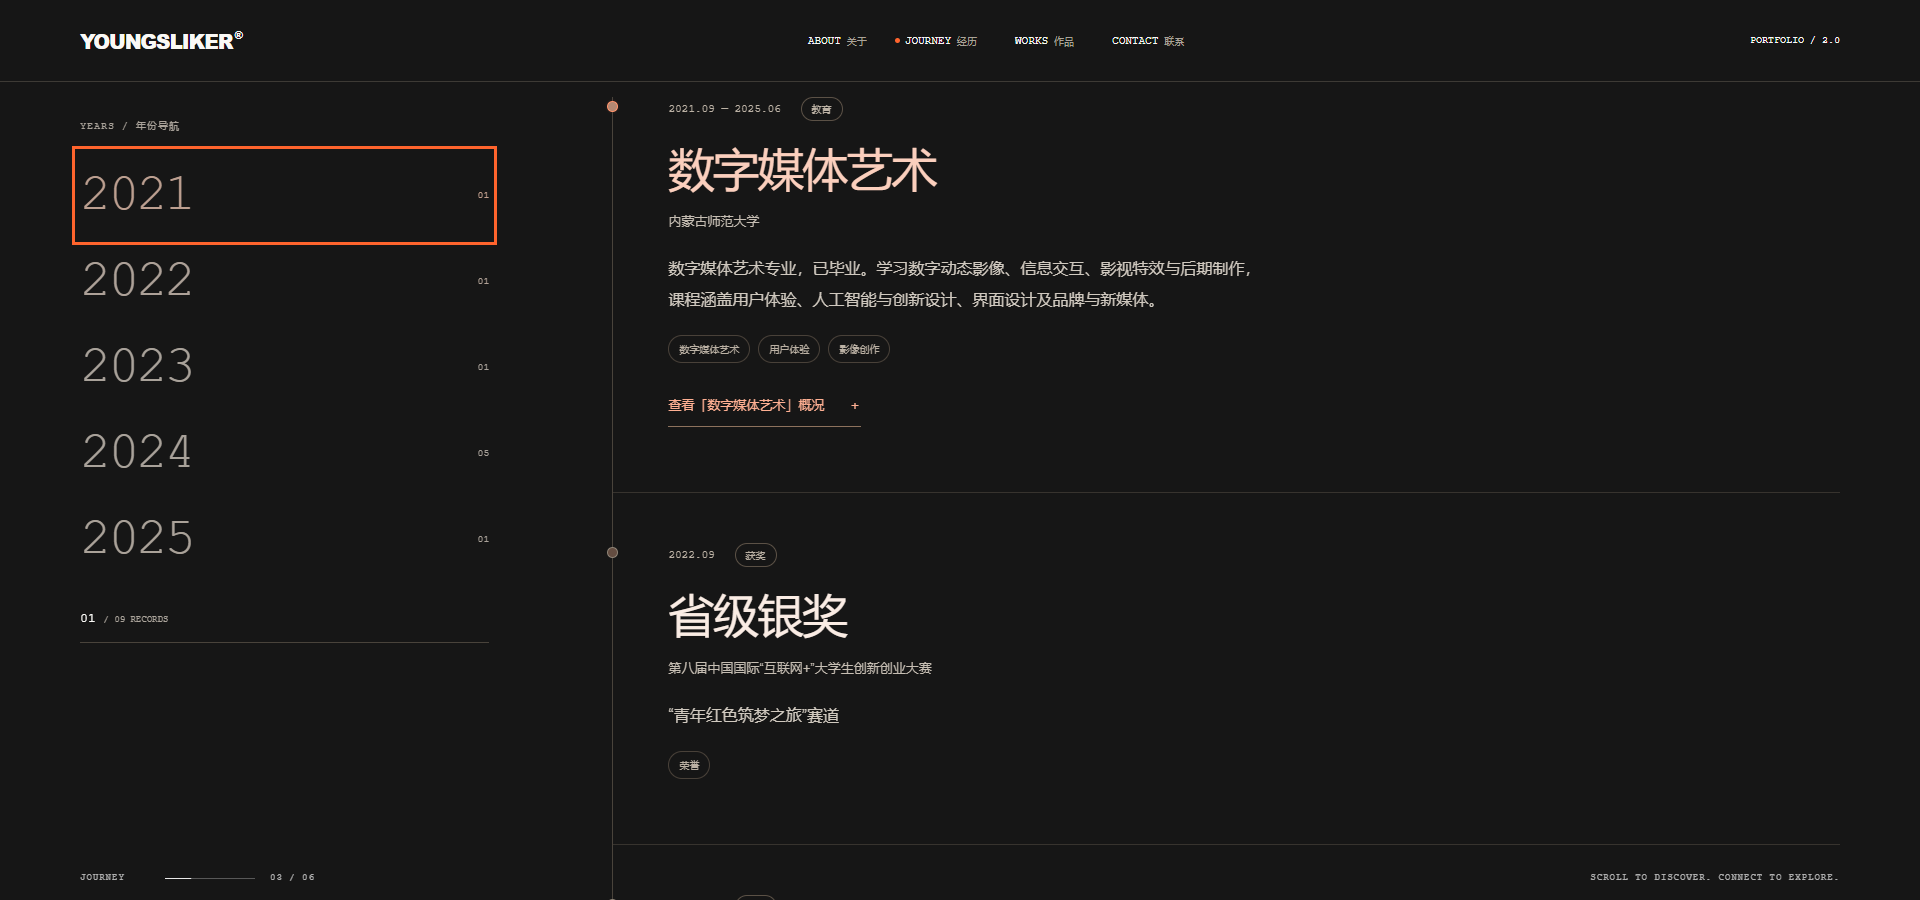
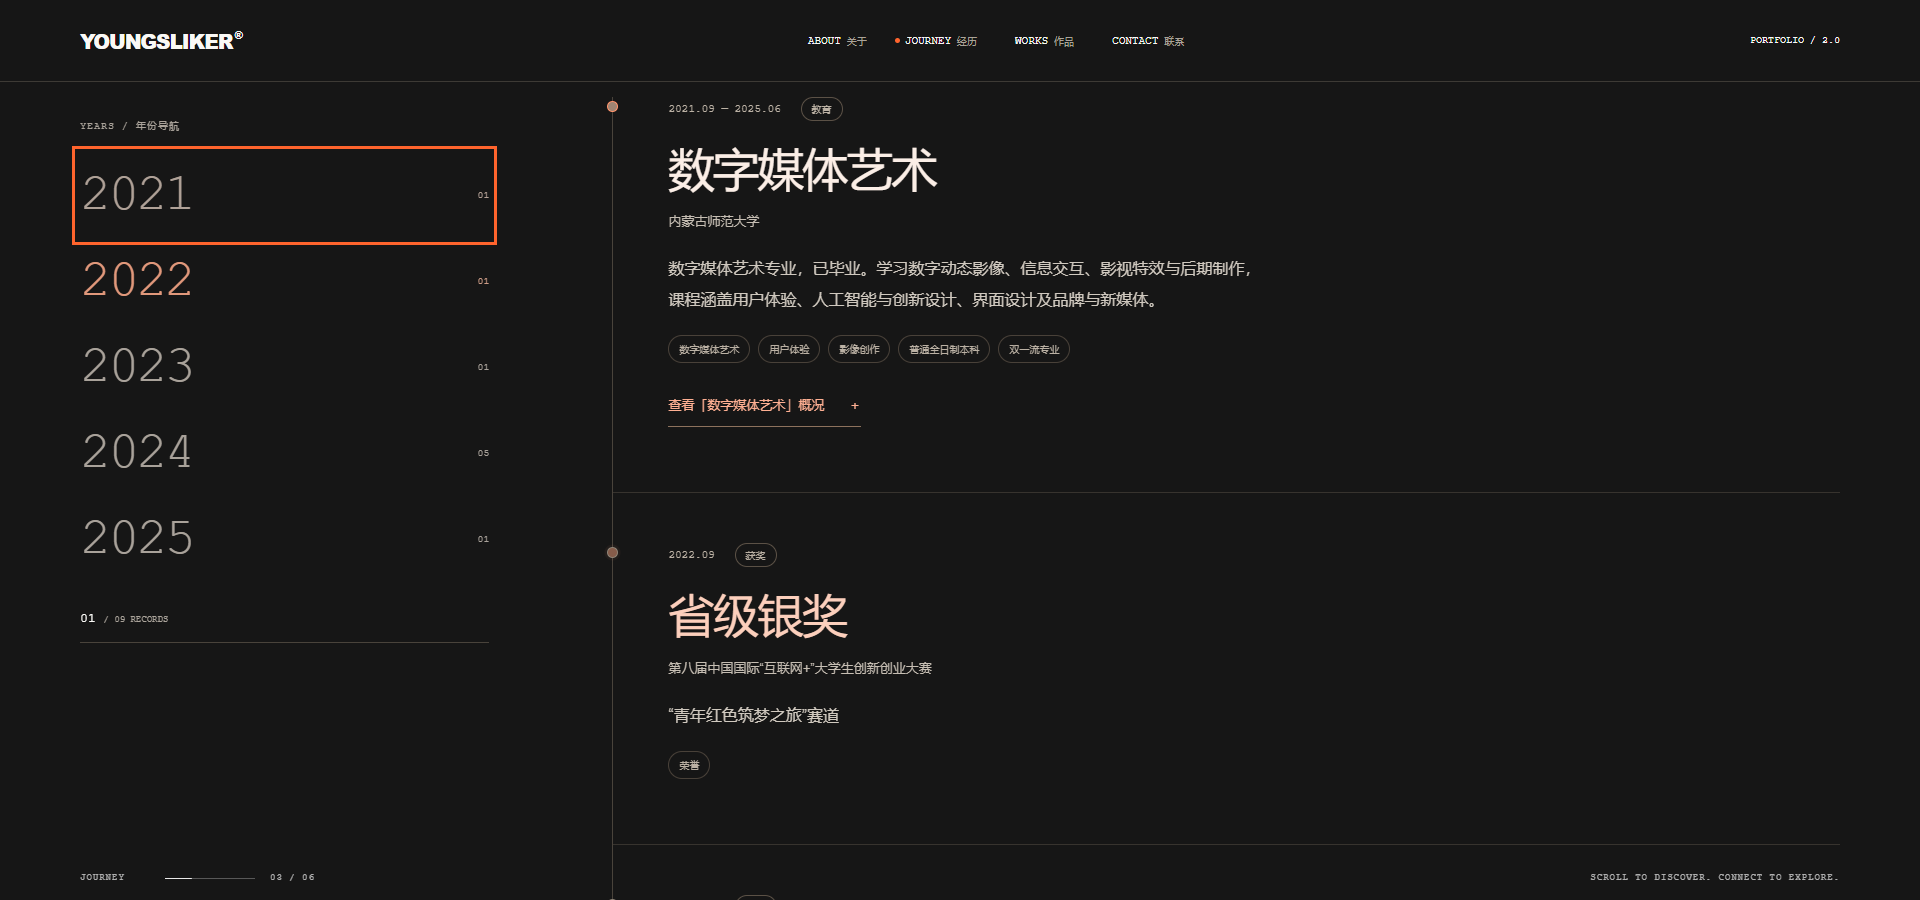
Astra修复
指针改成橙色四角框，悬停时展开到按钮边缘，深色背景也能看清。
矿山卡片补齐大标题、描边英文、背景和底部四栏信息。
两个透明 Logo 和数字媒体单图铺满概况内容宽度。
删除亚创概况里的重复标题，保留左侧竖排提示和缩小的证书。
补齐教育标签、实习分条内容、小马博士标题；绥远方志随机展示两张图。
生成轻量缩略图，保留原图。

diff --git a/New/js/components/Journey.tsx b/New/js/components/Journey.tsx
@@ -4,8 +4,8 @@ import {useJourney} from '../hooks/useJourney';
 import '../../css/journey.css';
 import awardImage from '../../assets/images/03 The Journey/亚洲大创一等奖.jpg';
 
-const journeyImages=import.meta.glob('../../assets/images/03 The Journey/**/*.{png,jpg,jpeg}',{eager:true,query:'?url',import:'default'}) as Record<string,string>;
-const imageFrom=(key:string)=>Object.entries(journeyImages).find(([path])=>path.includes(`/03 The Journey/${key}`))?.[1];
+const journeyImages=import.meta.glob('../../assets/images/03 The Journey/thumbnails/**/*.webp',{eager:true,query:'?url',import:'default'}) as Record<string,string>;
+const imageFrom=(key:string)=>Object.entries(journeyImages).find(([path])=>path.includes(`/thumbnails/${key}`))?.[1];
 const overviewCopy:Record<string,string>={
   education:'数字媒体艺术专业，围绕用户体验、影像创作与数字动态表达建立完整的设计基础。',
   mine:'以 Depth AI 建立场景模型，并在 UE5 中完成生态重建主题的实机演示。',
@@ -25,6 +25,7 @@ export function Journey() {
   const root=useRef<HTMLElement>(null);
   const active=useJourney(root);
   const [overview,setOverview]=useState<string|null>(null);
+  const [suiyuanImages]=useState(()=>Object.keys(journeyImages).filter(path=>path.includes('/绥远方志/')).map(path=>path.split('/thumbnails/')[1]).sort(()=>Math.random()-.5).slice(0,2));
   const lightbox=useRef<HTMLDialogElement>(null);
   const [imageOpen,setImageOpen]=useState(false);
   useEffect(()=>{
@@ -56,8 +57,18 @@ export function Journey() {
         {(entry.kind!=='获奖'||entry.id==='award-1')&&<button className="journey-work-link" aria-expanded={overview===entry.id} aria-controls={`overview-${entry.id}`} onClick={()=>setOverview(overview===entry.id?null:entry.id)}>查看「{entry.id==='internship'?'实习经历':entry.id==='award-1'?'“亚创大赛”一等奖':entry.title}」概况 <span aria-hidden="true">{overview===entry.id?'−':'＋'}</span></button>}
         </div>
         {overview===entry.id&&<section id={`overview-${entry.id}`} className="journey-overview" aria-label={`${entry.title}概况`}>
-          <span className="journey-nav-label">PROJECT / 概况</span><h4>{entry.id==='internship'?'脸谱心智 · AIGC 实习':entry.title}</h4>
-          {entry.id==='award-1'?<button type="button" className="journey-certificate" onClick={()=>setImageOpen(true)} aria-label="放大亚创获奖证书"><span>点击查看大图</span><img src={awardImage} alt="亚创获奖证书"/></button>:<><p>{overviewCopy[entry.id]??entry.description}</p>{entry.id==='mine'?<div className="journey-mine-card"><strong>MINING ECOLOGY<br/>RESTORATION</strong><small>DEPTH AI → UE5&nbsp;&nbsp; / &nbsp;&nbsp;2023</small></div>:overviewImages[entry.id]&&<div className={`journey-overview-images journey-overview-images--${entry.id}`}>{overviewImages[entry.id].map((key,index)=>{const src=imageFrom(key);return src?<img key={index} src={src} alt="" loading="lazy"/>:null;})}</div>}</>} {entry.id!=='award-1'&&<p className="journey-overview-meta">{entry.organization} · {entry.date}</p>}
+          {entry.id==='award-1'?<button type="button" className="journey-certificate" onClick={()=>setImageOpen(true)} aria-label="放大亚创获奖证书"><span>点击查看大图</span><img src={imageFrom('亚洲大创一等奖')} alt="亚创获奖证书"/></button>:entry.id==='mine'?<div className="journey-mine-card">
+            <div className="mine-kicker">ECOLOGICAL RECONSTRUCTION · UE5</div><h4>矿山*生态</h4>
+            <strong>MINING ECOLOGY<br/>RESTORATION</strong>
+            <p>使用 AI 图像生成、语言模型、ShaderMap 与 SUNO 辅助创作，结合场景建模与 UE5，完成生态重建主题的实机演示。</p>
+            <dl>{[['TYPE','生态场景设计'],['PIPELINE','Depth AI → UE5'],['OUTPUT','矿山场景实机'],['YEAR','2023']].map(([label,value])=><div key={label}><dt>{label}</dt><dd>{value}</dd></div>)}</dl>
+          </div>:<>
+            <span className="journey-nav-label">{entry.id==='internship'?'INTERNSHIP / 实习经历':'PROJECT / 概况'}</span>
+            <h4>{entry.id==='internship'?'AIGC 实习 · 工作内容':entry.id==='earthquake'?'活动断层成果应用':entry.title}</h4>
+            {entry.id==='internship'?<ul className="journey-internship-list"><li>配置和优化 ComfyUI 的 LivePortrait、easyanimat。</li><li>完善和修改角色卡，制作抽卡抽奖动画及类 fufu 的角色 AI 动画。</li><li>制作 CP30 宣发海报、易拉宝，完善哄哄模拟器设计，迭代话题与话术。</li><li>完善 VUP 模拟器设计，使用 PyQt 编写界面。</li></ul>:<p>{overviewCopy[entry.id]??entry.description}</p>}
+            {overviewImages[entry.id]&&<div className={`journey-overview-images journey-overview-images--${entry.id}`}>{(entry.id==='suiyuan'?suiyuanImages:overviewImages[entry.id]).map((key,index)=>{const src=imageFrom(key);return src?<img key={key} src={src} alt={`${entry.title}展示 ${index+1}`} loading="lazy" decoding="async"/>:null;})}</div>}
+            <p className="journey-overview-meta">{entry.organization} · {entry.date}</p>
+          </>}
         </section>}
 
       </article>)}</div>

diff --git a/New/data/journey.ts b/New/data/journey.ts
@@ -4,11 +4,11 @@ export interface TimelineEntry {
 }
 // Explicit source dates only; asset filenames are not evidence of completion.
 const practiceEntries:TimelineEntry[] = [
-  {id:'education',year:'2021',date:'2021.09 — 2025.06',kind:'教育',title:'数字媒体艺术',organization:'内蒙古师范大学',description:'数字媒体艺术专业，已毕业。学习数字动态影像、信息交互、影视特效与后期制作，课程涵盖用户体验、人工智能与创新设计、界面设计及品牌与新媒体。',tags:['数字媒体艺术','用户体验','影像创作'],source:'用户提供简历：教育背景',confirmed:true},
+  {id:'education',year:'2021',date:'2021.09 — 2025.06',kind:'教育',title:'数字媒体艺术',organization:'内蒙古师范大学',description:'数字媒体艺术专业，已毕业。学习数字动态影像、信息交互、影视特效与后期制作，课程涵盖用户体验、人工智能与创新设计、界面设计及品牌与新媒体。',tags:['数字媒体艺术','用户体验','影像创作','普通全日制本科','双一流专业'],source:'用户提供简历：教育背景',confirmed:true},
   {id:'mine',year:'2023',date:'2023.08',kind:'项目',title:'矿山*生态',organization:'创作实践',description:'基于 Depth AI 场景建模的 UE5 实机演示。',tags:['Depth AI','UE5','场景建模'],source:'用户提供作品说明及 No.202308',confirmed:true,workId:'mine-eco'},
   {id:'arti',year:'2024',date:'2024.03',kind:'项目',title:'ARTI 人工智能艺术教育教程',organization:'中国人工智能艺术教育协同创新平台',description:'ARTI 平台讲解及人工智能教育联盟公众号教程制作。内容涵盖基础图像生成、产品与交互设计、平面与视觉设计、装置与公共艺术的图像生成教程。',tags:['AI 教程','生成式视觉'],source:'用户提供简历：项目经历，2024.03',confirmed:true},
   {id:'lingsu',year:'2024',date:'2024.06',kind:'项目',title:'微元灵溯',organization:'创作实践',description:'基于“隐性饥饿”的 AI 艺术可视化交互设计。',tags:['AI 艺术','可视化','交互设计'],source:'用户提供作品说明及 No.202406',confirmed:true,workId:'weiyuan'},
-  {id:'internship',year:'2024',date:'2024.08 — 2024.10',kind:'实习',title:'AIGC 设计师',organization:'上海脸谱心智',description:'配置和优化 ComfyUI 工作流，完善角色卡并制作抽卡动画与角色 AI 动画；制作 CP30 宣发海报、易拉宝，参与模拟器话题、话术与界面设计，使用 PyQt 编写界面。',tags:['ComfyUI','AI 动画','视觉物料','PyQt'],source:'用户提供简历：工作经历',confirmed:true},
+  {id:'internship',year:'2024',date:'2024.08 — 2024.10',kind:'实习',title:'AIGC 设计师',organization:'上海脸谱心智',description:'参与 AI 动画、宣发物料与模拟器设计，优化 ComfyUI 工作流并使用 PyQt 开发界面。',tags:['ComfyUI','AI 动画','视觉物料','PyQt'],source:'用户提供简历：工作经历',confirmed:true},
   {id:'earthquake',year:'2024',date:'2024.11 — 2024.12',kind:'项目',title:'小马博士讲故事',organization:'内蒙古自治区地震局',description:'“炫动文创联‘萌’守护地震安全”（第二季）——小马博士讲故事活动断层成果应用。制作系列视频，传播活动断层探测成果的应用及减轻地震灾害损失的知识。',tags:['地震科普','系列视频'],source:'用户提供简历：项目经历',confirmed:true},
   {id:'suiyuan',year:'2025',date:'2025.01 — 2025.07',kind:'项目',title:'绥远方志',organization:'“创意内蒙古”设计赋能呼和浩特',description:'以呼和浩特不同时期的史志为内容，设计沉浸式交互系统。使用 AIGC 制作图像、音频、视频、模型、代码与文本，并通过 Unity 整合；结合强化学习智能体、3D 打印与 Pico Neo3 VR 构建体验。',tags:['AIGC','Unity','智能体','VR'],source:'用户提供简历项目经历；完成月份另由用户确认为 2025.07',confirmed:true,workId:'suiyuan'},
 ];

diff --git a/New/css/journey.css b/New/css/journey.css
@@ -80,3 +80,27 @@
 
 .journey-lightbox { -webkit-backdrop-filter:blur(12px); backdrop-filter:blur(12px); }
 
+/* Full-width, uncropped artwork; transparent logos keep the panel background. */
+.journey-overview-images--lingsu img,.journey-overview-images--internship img,.journey-overview-images--education img { width:100%;max-width:100%;height:auto;object-fit:contain;border:0;background:transparent; }
+.journey-overview-images:not(.journey-overview-images--lingsu):not(.journey-overview-images--internship):not(.journey-overview-images--education) img {height:auto;object-fit:contain;align-self:center;}
+.journey-internship-list {padding-left:18px;font-size:14px;line-height:1.9;color:#d0c9bf;}
+.journey-internship-list li+li {margin-top:8px;}
+.journey-entry--award-1 .journey-overview {padding:0;border:0;background:none;}
+.journey-certificate {display:flex;justify-content:center;gap:14px;min-height:190px;}
+.journey-certificate img {width:50%;max-height:190px;}
+.journey-entry--mine .journey-overview {padding:0;border:0;background:none;}
+.journey-mine-card {margin:0;padding:22px 18px 0;overflow:hidden;background:linear-gradient(#08100ddd,#08100dee),url('../assets/images/menu/mine-eco.webp') center/cover;border:1px solid #536b2344;}
+.mine-kicker {font:700 9px/1.5 var(--sans);letter-spacing:2px;color:#b7ee36;}
+.journey-mine-card h4 {font-size:clamp(32px,3.3vw,58px);font-weight:900;color:#fff;line-height:1.15;margin:18px 0;}
+.journey-mine-card strong,.journey-mine-card strong::first-line {font:900 clamp(21px,2.25vw,38px)/1.25 var(--sans);letter-spacing:0;color:transparent;-webkit-text-stroke:1px #b7ee36;}
+.journey-mine-card p {margin:18px 0;color:#b4b9b4;font-size:12px;line-height:1.9;}
+.journey-mine-card dl {display:grid;grid-template-columns:repeat(4,minmax(0,1fr));margin:20px -18px 0;background:#18200f;border-top:1px solid #536b23;}
+.journey-mine-card dl div {padding:12px 7px;border-right:1px solid #536b23;min-width:0;}
+.journey-mine-card dt {font-size:8px;font-weight:bold;letter-spacing:1px;color:#b7ee36;}
+.journey-mine-card dd {margin:7px 0 0;font-size:10px;line-height:1.5;color:#fff;}
+.journey-mine-card dl div:last-child dd {font-size:25px;font-weight:900;color:#b7ee36;line-height:1;}
+.interactive-cursor {width:0;height:0;transform:none;mix-blend-mode:normal;transition:opacity .15s;filter:drop-shadow(0 0 5px #ff642d99);}
+.interactive-cursor__dot {inset:auto;left:-3px;top:-3px;width:6px;height:6px;}
+.interactive-cursor__corners {inset:auto;left:var(--frame-x,-18px);top:var(--frame-y,-18px);width:var(--frame-width,36px);height:var(--frame-height,36px);border:0;transition:width .2s,height .2s,left .2s,top .2s;}
+@media(pointer:fine){.portfolio-cursor-enabled,.portfolio-cursor-enabled * {cursor:none!important;}}
+

diff --git a/New/js/components/InteractiveCursor.tsx b/New/js/components/InteractiveCursor.tsx
@@ -6,22 +6,26 @@ export function InteractiveCursor(){
     const el=ref.current;
     if(!el || !window.matchMedia('(pointer:fine)').matches) return;
     const move=(event:PointerEvent)=>{
+      el.setAttribute('data-visible','');
       const target=event.target as HTMLElement|null;
-      const interactive=target?.closest('a,button,[data-cursor-expand],.flowing-menu__link');
+      const interactive=target?.closest('a[href],button:not(:disabled),[role="button"],[data-cursor-expand]');
+      document.documentElement.classList.add('portfolio-cursor-enabled');
       el.style.setProperty('--cursor-x',`${event.clientX}px`);
       el.style.setProperty('--cursor-y',`${event.clientY}px`);
       el.toggleAttribute('data-active',!!interactive);
       if(interactive){
         const rect=(interactive as HTMLElement).getBoundingClientRect();
-        const size=Math.max(34,Math.min(76,Math.max(rect.width,rect.height)*.22));
-        el.style.setProperty('--cursor-size',`${size}px`);
-      }else el.style.setProperty('--cursor-size','24px');
+        el.style.setProperty('--frame-width',`${rect.width}px`);
+        el.style.setProperty('--frame-height',`${rect.height}px`);
+        el.style.setProperty('--frame-x',`${rect.left-event.clientX}px`);
+        el.style.setProperty('--frame-y',`${rect.top-event.clientY}px`);
+      }else {el.style.setProperty('--frame-width','36px');el.style.setProperty('--frame-height','36px');el.style.setProperty('--frame-x','-18px');el.style.setProperty('--frame-y','-18px');}
     };
-    const leave=()=>el.removeAttribute('data-visible');
+    const leave=()=>{el.removeAttribute('data-visible');document.documentElement.classList.remove('portfolio-cursor-enabled');};
     const enter=()=>el.setAttribute('data-visible','');
     window.addEventListener('pointermove',move,{passive:true});
     window.addEventListener('pointerenter',enter); window.addEventListener('pointerleave',leave);
-    return()=>{window.removeEventListener('pointermove',move);window.removeEventListener('pointerenter',enter);window.removeEventListener('pointerleave',leave);};
+    return()=>{leave();window.removeEventListener('pointermove',move);window.removeEventListener('pointerenter',enter);window.removeEventListener('pointerleave',leave);};
   },[]);
   return <div ref={ref} className="interactive-cursor" aria-hidden="true"><i className="interactive-cursor__dot"/><i className="interactive-cursor__corners"/></div>;
 }

diff --git a/New/js/tests/journey-certificate.spec.ts b/New/js/tests/journey-certificate.spec.ts
@@ -5,11 +5,26 @@ test('overview sits on the right and award opens a dismissible image',async({pag
  const mine=page.locator('#journey-mine');await mine.locator('.journey-work-link').click();
  const copy=await mine.locator('.journey-entry-copy').boundingBox(),panel=await mine.locator('.journey-overview').boundingBox();
  expect(panel!.x).toBeGreaterThan(copy!.x+copy!.width);expect(Math.abs(panel!.y-copy!.y)).toBeLessThan(2);
+ await expect(mine.locator('.journey-mine-card dl div')).toHaveCount(4);
+ await mine.screenshot({path:'test-results/journey-mine-review.png'});
  const award=page.locator('#journey-award-1');await award.locator('.journey-work-link').click();
  const thumb=award.locator('.journey-certificate img');await expect(thumb).toBeVisible();expect(await thumb.evaluate((img:HTMLImageElement)=>img.complete&&img.naturalWidth>0)).toBe(true);
+ await expect(award.locator('.journey-overview h4')).toHaveCount(0);
+ const labelBox=await award.locator('.journey-certificate span').boundingBox(),imageBox=await thumb.boundingBox();
+ expect(labelBox!.x+labelBox!.width).toBeLessThan(imageBox!.x);
  await award.locator('.journey-certificate').click();const dialog=page.getByRole('dialog');await expect(dialog).toBeVisible();
  await expect(dialog).toHaveCSS('backdrop-filter','blur(12px)');
  await dialog.click({position:{x:5,y:500}});await expect(dialog).not.toBeVisible();
  await award.locator('.journey-certificate').click();await page.keyboard.press('Escape');await expect(dialog).not.toBeVisible();
+ for(const id of ['education','lingsu','internship']){
+  const entry=page.locator(`#journey-${id}`);await entry.locator('.journey-work-link').click();
+  const images=entry.locator('.journey-overview-images img');await expect(images).toHaveCount(1);
+  await expect.poll(()=>images.first().evaluate((img:HTMLImageElement)=>img.complete&&img.naturalWidth>0)).toBe(true);
+  const image=await images.boundingBox(),container=await entry.locator('.journey-overview-images').boundingBox();expect(image!.width).toBeGreaterThan(container!.width*.95);
+ }
+ const hover=page.locator('#journey-internship .journey-work-link');await hover.hover();
+ await expect(page.locator('.interactive-cursor')).toHaveAttribute('data-visible','');
+ await expect(page.locator('.interactive-cursor')).toHaveAttribute('data-active','');
+ await expect(page.locator('.interactive-cursor')).toHaveCSS('mix-blend-mode','normal');
 });
 
